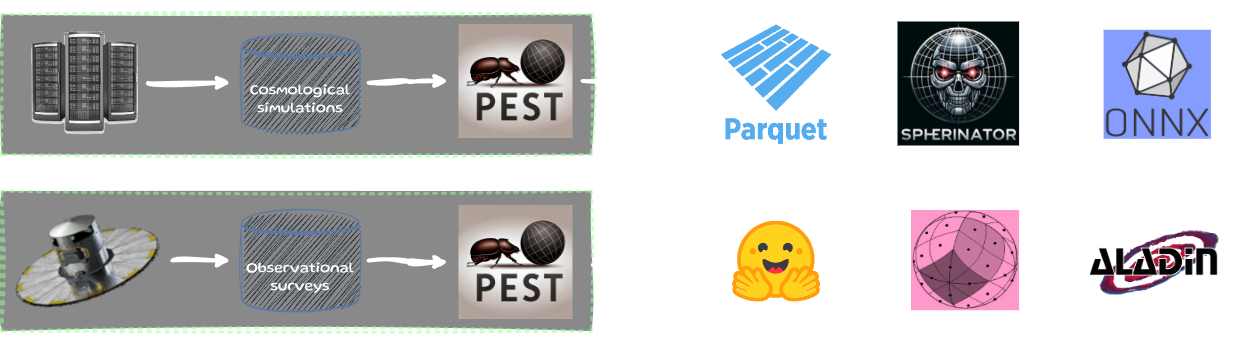
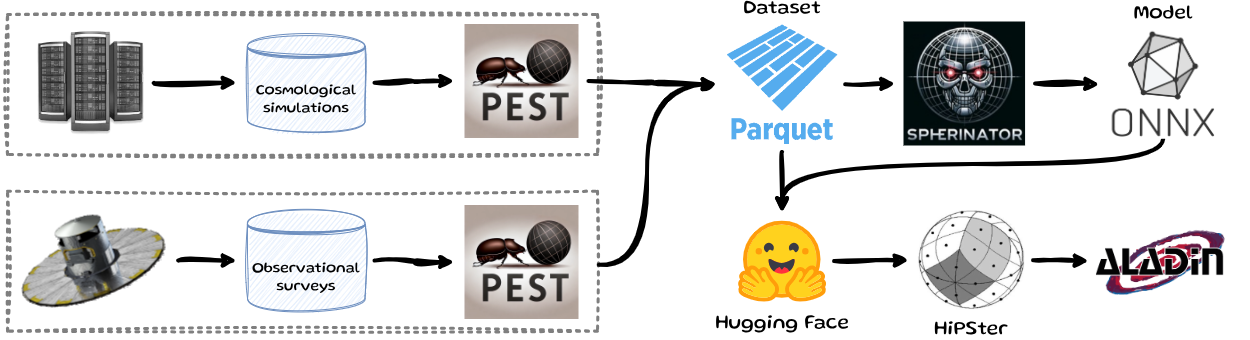
white bg for pipeline

diff --git a/docs/install.md b/docs/install.md
@@ -10,7 +10,7 @@ We recommend installing into a virtual environment rather than system-wide:
 
 ```bash
 python3 -m venv .venv
-source .venv/bin/activate      # on Windows: .venv\Scripts\activate
+source .venv/bin/activate
 
 pip install astro-pest
 ```
@@ -21,7 +21,7 @@ If you have [uv](https://docs.astral.sh/uv/) installed, it manages the virtual e
 
 ```bash
 uv venv
-source .venv/bin/activate      # on Windows: .venv\Scripts\activate
+source .venv/bin/activate
 
 uv pip install astro-pest
 ```

diff --git a/docs/index.md b/docs/index.md
@@ -6,7 +6,6 @@ PEST converts raw astrophysical simulation data into clean, structured training 
 ```{figure} assets/pipeline.png
 ---
 name: fig:ML pipeline
-width: 300px
 align: center
 ---
 ```
